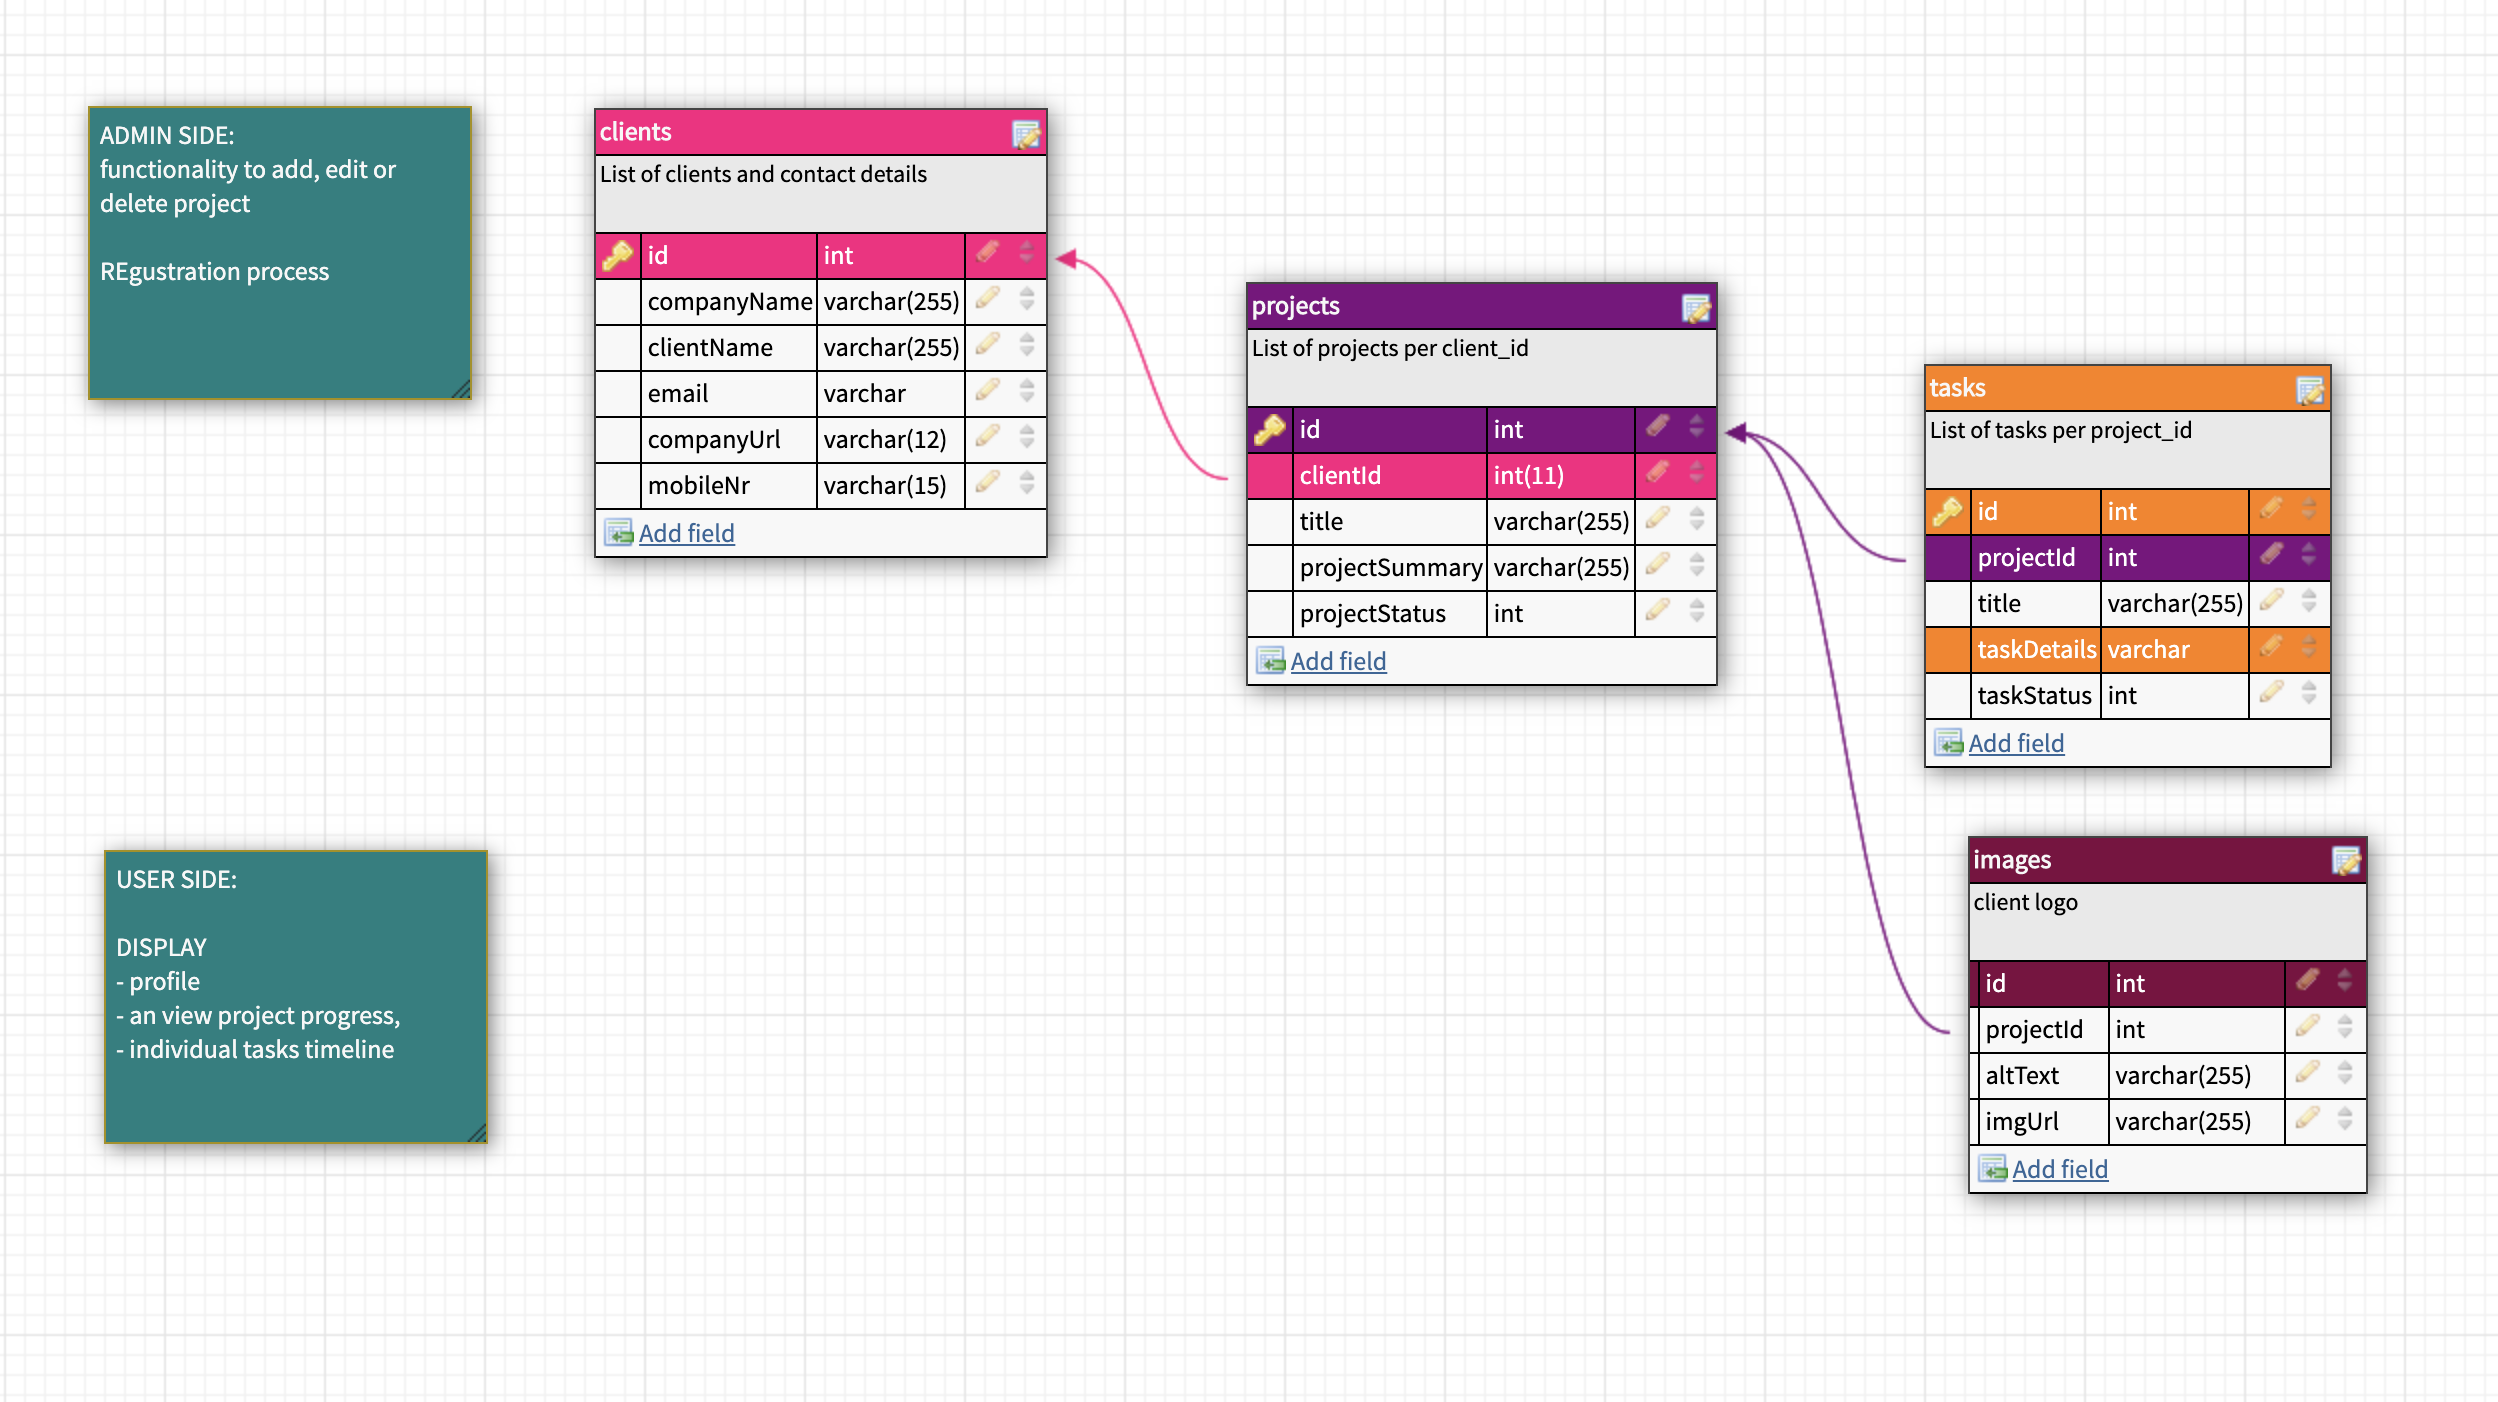
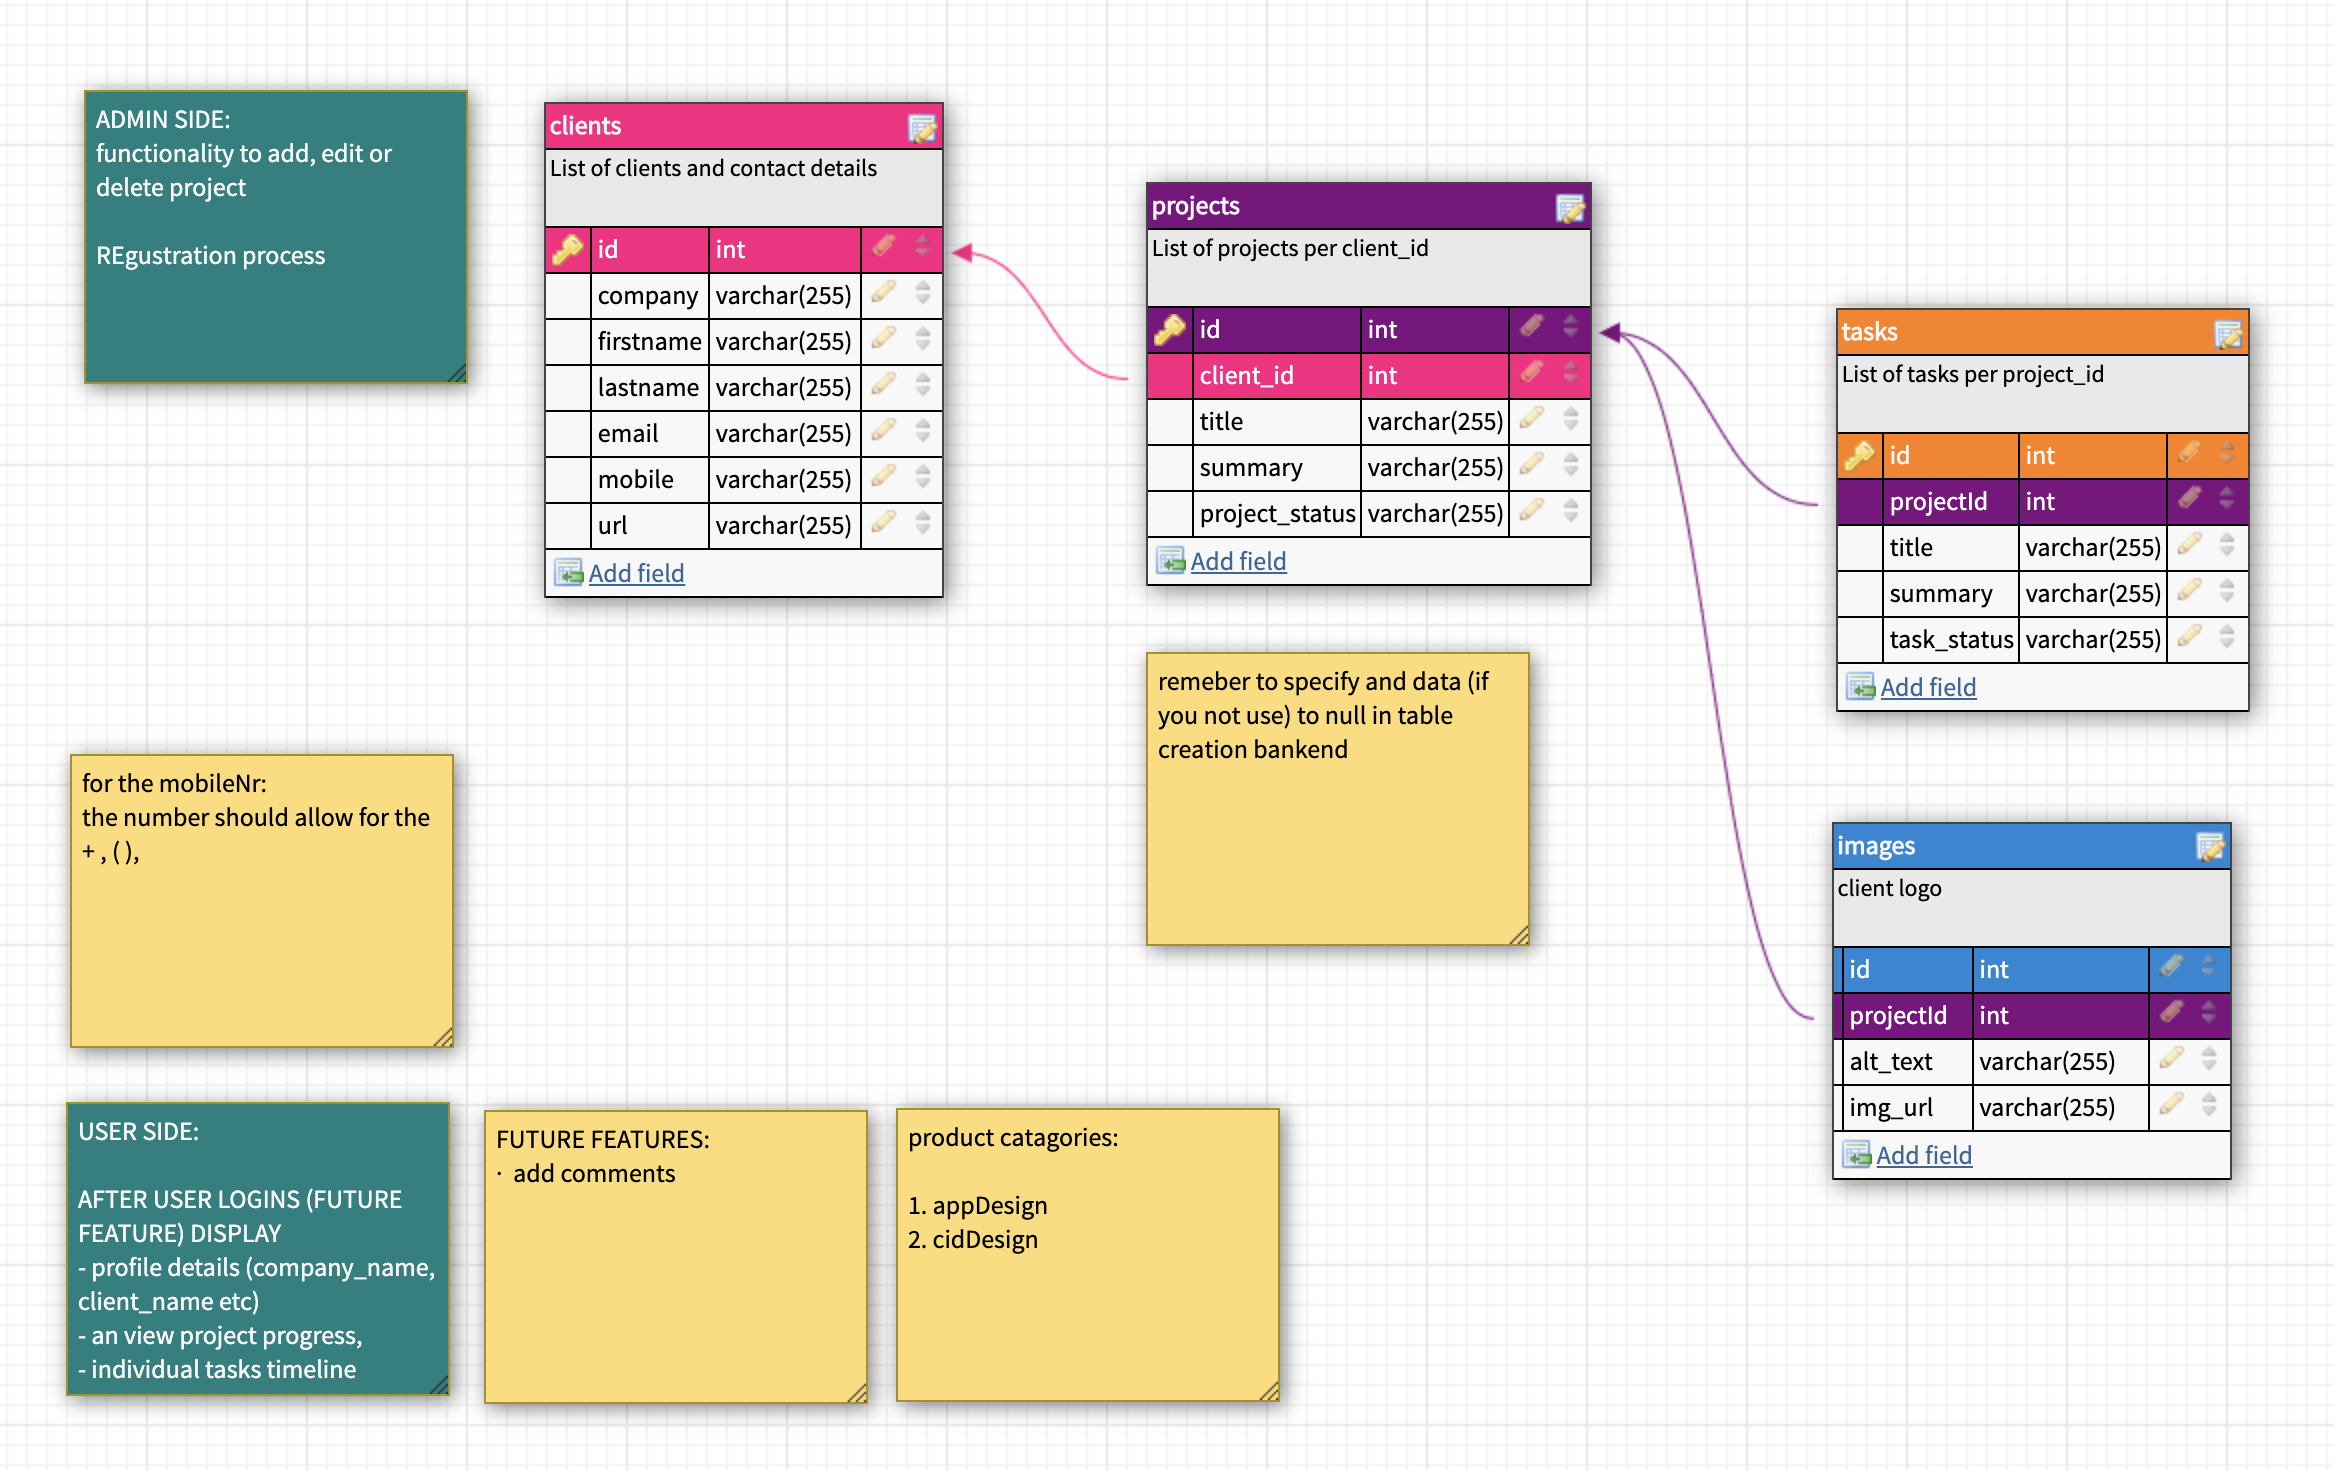
clients ednpoints created and conencting

diff --git a/routes/clients.js b/routes/clients.js
@@ -3,22 +3,38 @@ var router = express.Router();
 const bodyParser = require("body-parser");
 const db = require("../model/helper");
 
-// const getClients = require("../guards/getClients");
+// const clientShouldExist = require("../guards/clientShouldExist");
 // router.use(bodyParser.json());
 
-const getClients = (req, res) => {
-  db("SELECT * FROM clients;")
+const getClients = (req, res, next) => {
+  db(`SELECT * FROM clients ORDER BY id ASC;`)
     .then((results) => {
       res.send(results.data);
     })
     .catch((err) => res.status(500).send(err));
 };
 
+router.get("/", (req, res) => {
+  res.send("Welcome to Studio Coloured Clients List!");
+});
+
 // GET clients list
 router.get("/", getClients);
+// router.get("/clients", getClients);
 
-// GET one client
-router.get("/:id", function (req, res, next) {
+// **** TEST to see if client exists attempt 1
+// router.put("/clients/:id", clientShouldExist, (req, res, next) => {
+//   const { id } = req.params;
+
+//   db(`UPDATE clients SET complete = !complete WHERE id = ${id};`)
+//     .then(() => {
+//       getClients(req, res);
+//     })
+//     .catch((err) => res.status(500).send(err));
+// });
+
+// GET one client attempt 2
+router.get("/clients/:id", function (req, res, next) {
   const { id } = req.params;
 
   db(`SELECT * FROM clients WHERE id = ${id}`)
@@ -32,11 +48,35 @@ router.get("/:id", function (req, res, next) {
 router.post("/", function (req, res, next) {
   const { company, firstname, lastname, email, mobile, url } = req.body;
   db(
-    `INSERT INTO clients (company, firstname, lastname, email, mobile, url) VALUES ("${company}", "${firstname}","${lastname}","${email}","${mobile}","${url}");`
-  );
-  then((results) => {
-    res.send({ msg: "DATA WAS ADDED YAAAY!" });
-  }).catch((err) => res.status(500).sender(err));
+    `INSERT INTO clients (company, firstname, lastname, email, mobile, url) VALUES ('${company}', '${firstname}','${lastname}','${email}','${mobile}','${url}');`
+  )
+    .then((results) => {
+      res.send({ msg: "DATA WAS ADDED YAAAY!" });
+    })
+    .catch((err) => res.status(500).sender(err));
 });
+
+// DELETE a client from the DB
+router.delete("/:id", function (req, res, next) {
+  //your code here
+  const { id } = req.params;
+  let client = null;
+
+  db(`SELECT * FROM clients WHERE id = ${id}`)
+    .then((results) => {
+      client = results.data[0];
+      // console.log("YOU HERE???");
+      // console.log(client);
+
+      db(`DELETE FROM clients WHERE id = ${id};`)
+        .then((results) => {
+          res.send({ msg: `The client ${client.company} was deleted!` });
+        })
+        .catch((err) => res.status(500).send(err));
+    })
+    .catch((err) => res.status(500).send(err));
+});
+
+// UPDATE a client from the DB
 
 module.exports = router;

diff --git a/app.js b/app.js
@@ -4,8 +4,11 @@ var path = require("path");
 var cookieParser = require("cookie-parser");
 var logger = require("morgan");
 
-var indexRouter = require("./routes/index");
-var usersRouter = require("./routes/users");
+// var indexRouter = require("./routes/index");
+var clientsRouter = require("./routes/clients");
+// var projectsRouter = require("./routes/projects");
+// var tasksRouter = require("./routes/tasks");
+// var imagesRouter = require("./routes/images");
 
 var app = express();
 
@@ -15,8 +18,11 @@ app.use(express.urlencoded({ extended: false }));
 app.use(cookieParser());
 app.use(express.static(path.join(__dirname, "public")));
 
-app.use("/", indexRouter);
-app.use("/users", usersRouter);
+// app.use("/", indexRouter);
+app.use("/clients", clientsRouter);
+// app.use("/projects", projectsRouter);
+// app.use("/tasks", tasksRouter);
+// app.use("/images", imagesRouter);
 
 // catch 404 and forward to error handler
 app.use(function (req, res, next) {

diff --git a/README.md b/README.md
@@ -1,4 +1,6 @@
-# Studio Coloured*PROJECT TRACKING TOOL*
+# Studio Coloured
+
+## _PROJECT TRACKING TOOL_
 
 The initial contact will be via studio coloured website where a current client is given a username and password to access the CLIENT side. This will allow the client access to client projects and each project's tasks.
 Client access will allow:
@@ -30,16 +32,15 @@ For this full stack app we will be using React, Node/Express, and MySQL, Express
 - Create a new database called studiocoloured: `create database studiocoloured`
 - Add a `.env` file to the main folder of this repository containing the MySQL authentication information for MySQL user. For example:
 
-```bash
-  DB_HOST=localhost
-  DB_USER=root
-  DB_NAME=studiocoloured
-  DB_PASS=YOURPASSWORD
+```DB_HOST=localhost
+    DB_USER=root
+    DB_NAME=studiocoloured
+    DB_PASS=YOURPASSWORD
 ```
 
-- Run `npm run migrate` in the main folder of this repository, in a new terminal window. This will create a table called 'students' in your database.
+- Run `npm run migrate` in the main folder of this repository, in a new terminal window. This will create a tables called 'clients', 'projects', 'tasks' and 'images' in your database (studiocoloured).
 
-- Make sure you understand how the `students` table is constructed. In your MySQL console, you can run `use facebook;` and then `describe students;` to see the structure of the students table.
+- Make sure you understand how the `clients` table is constructed. In your MySQL console, you can run `use studiocoloured;` and then `describe clients;` to see the structure of the students table.
 
 ### Development
 
@@ -48,13 +49,31 @@ For this full stack app we will be using React, Node/Express, and MySQL, Express
 
 ## Basic Requirements
 
-Create a webpage with the following functionality:
+The webpage ADMIN side will have the following functionality:
 
 - [ ] A list of clients.
-- [ ] A form to add new client. ( this information allows freelance insight into client) There should be room to input:
-      company name or website URL, contact person: first and last names, separately, contact email address,
-  - After clicking a button in the form, the new student should be added to the database and displayed on the page.
-- [ ] Each student can be deleted with a delete button. After clicking on this button, student should be deleted from the database and the updated list of students shown on the page
+- [ ] A form to add new client with the following inputs: - company, firstname, lastname, email, mobile, url
+  - After clicking a SUBMIT button in the form, the new cleint should be added to the database and displayed on the page.
+- [ ] Each client can be deleted with a delete button. After clicking on this button, teh client should be deleted from the database and the updated list of clients is shown on the page.
+- [] the clients will have a PRIMARY key.
+
+- [ ] When a client is clicked on in the list of clients, you get a list of projects.
+- [ ] A form to add new project with the following inputs: - title, summary, project_status
+  - After clicking a SUBMIT button in the form, the new project should be added to the database and displayed on the page.
+- [ ] Each project can be deleted with a delete button. After clicking on this button, the project should be deleted from the database and the updated list of projects is shown on the page.
+- [] the images will have a foreign key relation with the client_id.
+
+- [ ] When a project is clicked on in the list of projects, you get a list of tasks.
+- [ ] A form to add new task with the following inputs: - title, summary, task_status
+  - After clicking a SUBMIT button in the form, the new task should be added to the database and displayed on the page.
+- [ ] Each task can be deleted with a delete button. After clicking on this button, the task should be deleted from the database and the updated list of tasks is shown on the page.
+- [] the tasks_id will have a foreign key relation with the project_id.
+
+- [ ] When images is clicked on in the list of images, you get a list of images.
+- [ ] A form to add new image with the following inputs: - alt_text, img_url
+  - After clicking a SUBMIT button in the form, the new image should be added to the database and displayed on the page.
+- [ ] Each image can be deleted with a delete button. After clicking on this button, the image should be deleted from the database and the updated list of images is shown on the page.
+- [] the images_id will have a foreign key relation with the project_id.
 
 #### DB SCHEMA DESIGN
 
